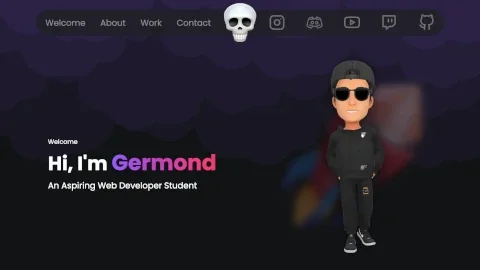
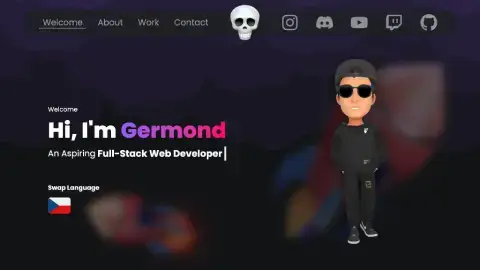
fixes of all types + locales update

diff --git a/components/Section/Work.vue b/components/Section/Work.vue
@@ -33,6 +33,7 @@
                 <a
                   v-if="$rt(lValue) != ''"
                   :href="$rt(lValue)"
+                  target="_blank"
                   class="size-8 bg-[#121316be] backdrop-blur flex items-center justify-center rounded-full overflow-hidden outline outline-1"
                 >
                   <Icon
@@ -45,7 +46,7 @@
             </div>
             <a
               :href="$rt(project.href)"
-              target="'.($row['href'] === './' ? '_self' : '_blank').'"
+              :target="$rt(project.href) == './' ? '_self' : '_blank'"
               class="h-full flex flex-col bg-[#0d0d0faa] z-20 p-3 rounded-xl"
             >
               <div>
@@ -59,7 +60,7 @@
               </div>
               <p
                 v-dompurify-html="$rt(project.content)"
-                class="text-justify mb-2 line-clamp-5"
+                class="text-justify mb-2 line-clamp-6"
               ></p>
               <div class="flex items-center gap-x-2 truncate">
                 <template v-for="(tValue, tKey, k) in project.tags" :key="k">

diff --git a/components/Section/About.vue b/components/Section/About.vue
@@ -12,7 +12,7 @@
         <p v-dompurify-html="$t('about.content')"></p>
       </div>
       <div
-        class="w-[90%] grid max-xs:grid-cols-3 max-md:grid-cols-4 max-lg:grid-cols-5 grid-cols-6 items-center justify-between max-md:gap-8 gap-16"
+        class="w-full max-sm:w-[95%] grid max-xs:grid-cols-3 max-md:grid-cols-4 max-lg:grid-cols-5 grid-cols-6 items-center justify-between max-md:gap-8 gap-16"
       >
         <div
           v-for="(skill, index) in $tm('skills')"

diff --git a/assets/scss/style.scss b/assets/scss/style.scss
@@ -179,8 +179,24 @@ section#contact {
   color: #46adf6;
 }
 
+.tag-tailwindcss {
+  color: #36BCF9;
+}
+
 .tag-ajax {
   color: #21b0f2;
+}
+
+.tag-typescript {
+  color: #2E72BF;
+}
+
+.tag-vue {
+  color: #3EB27F;
+}
+
+.tag-nuxt {
+  color: #00DC81;
 }
 
 /* pretty forms by @germondai */
